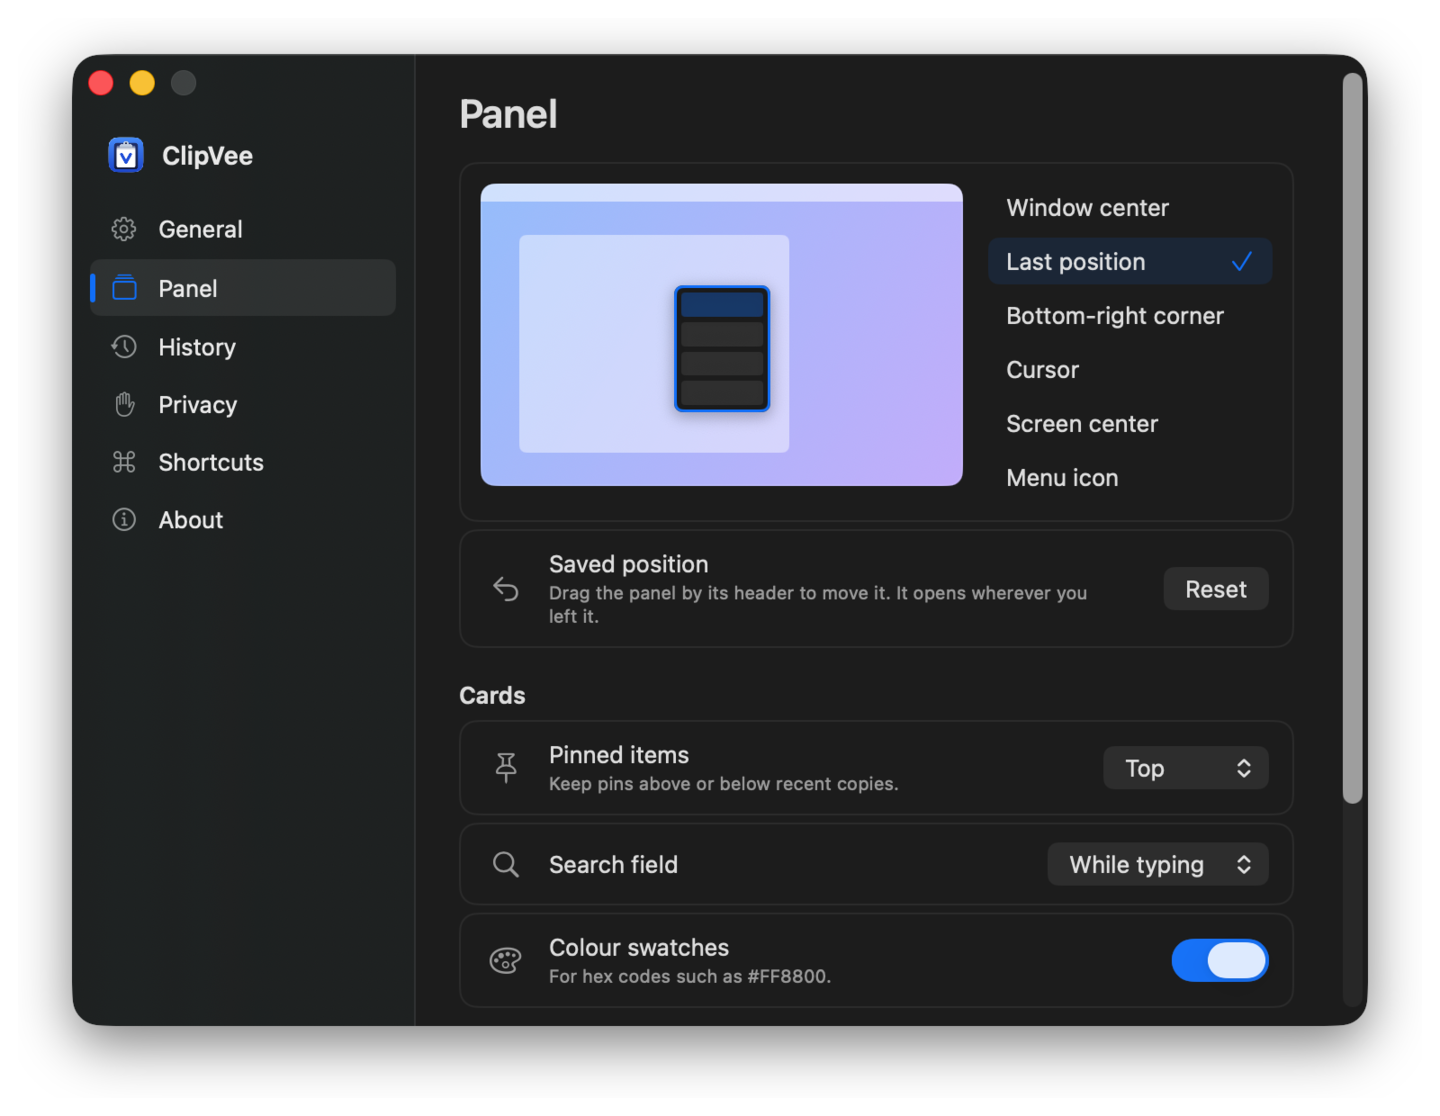
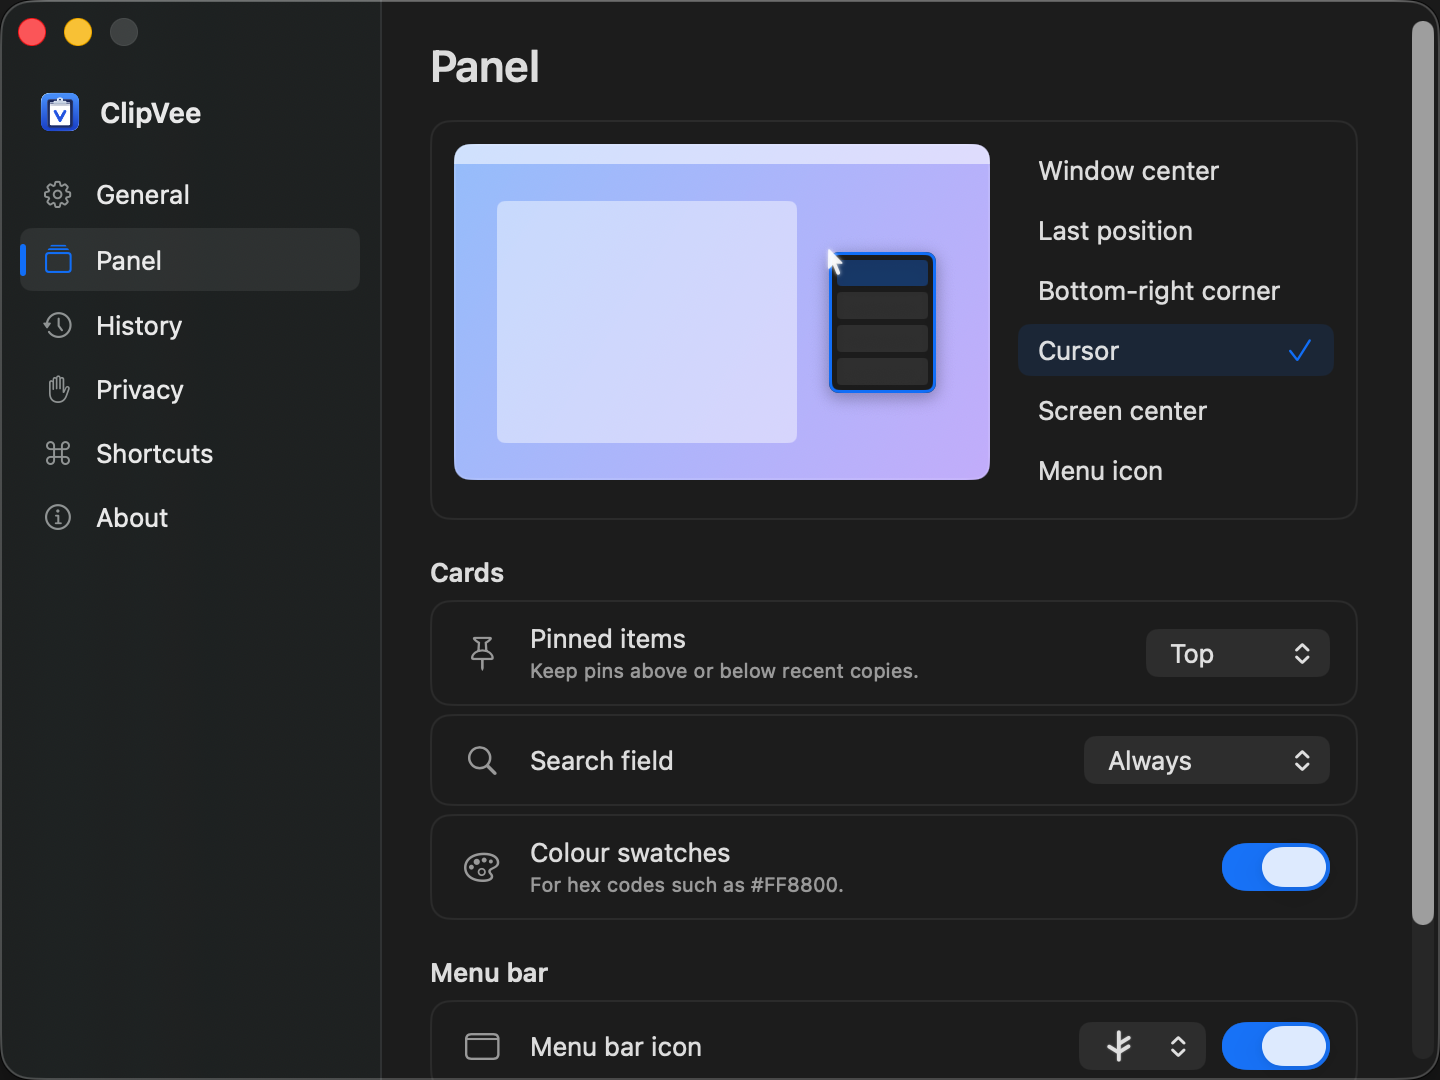
Show a native ClipVee demo in the README
A capture test drives the real app beside a disposable Editor document, and
scripts/build-readme-media.sh turns the frames into the README GIF and the
panel and Settings screenshots. Enter and Return paste tests now send the
physical key to the panel, and the search-mode test checks that the first
typed letters both reach the field.

diff --git a/MaccyUITests/MaccyUITests.swift b/MaccyUITests/MaccyUITests.swift
@@ -28,7 +28,9 @@ class MaccyUITests: XCTestCase {
     return XCUIApplication()
   }()
   let pasteboard = NSPasteboard.general
-  private lazy var pasteTarget = XCUIApplication(bundleIdentifier: "uk.co.mzbali.MaccyPasteTarget")
+  private lazy var pasteTarget = XCUIApplication(url: URL(fileURLWithPath: #filePath)
+    .deletingLastPathComponent().deletingLastPathComponent()
+    .appendingPathComponent(".build/PasteTarget.app"))
   private var savedClipboard: [NSPasteboardItem] = []
   private var didLaunch = false
   private var popupKeyCode = kVK_ANSI_C
@@ -227,8 +229,11 @@ class MaccyUITests: XCTestCase {
     XCTAssertTrue(field.exists)
     // The field waits for the user, without a caret, until typing starts.
     XCTAssertFalse(field.value(forKey: "hasKeyboardFocus") as? Bool ?? false)
+    postKey(kVK_ANSI_A)
+    postKey(kVK_ANSI_B)
+    assertSearchFieldValue("ab")
     for _ in 0..<5 { postKey(kVK_ANSI_X) }
-    assertSearchFieldValue("xxxxx")
+    assertSearchFieldValue("abxxxxx")
     clearEmptySearch()
     XCTAssertTrue(app.textFields.firstMatch.exists)
     for _ in 0..<3 { postKey(kVK_ANSI_Z) }
@@ -335,11 +340,29 @@ class MaccyUITests: XCTestCase {
   }
 
   func testCopyWithEnter() {
-    popUpWithMouse()
-    scrollIntoViewIfNeeded(items[copy2].firstMatch)
-    hover(items[copy2].firstMatch)
-    app.typeKey(.enter, modifierFlags: [])
+    assertKeyboardPaste(keyCode: kVK_ANSI_KeypadEnter)
+  }
+
+  func testCopyWithReturn() {
+    assertKeyboardPaste(keyCode: kVK_Return)
+  }
+
+  private func assertKeyboardPaste(keyCode: Int) {
+    popUpWithHotkey()
+    postKey(kVK_DownArrow)
+    let selected = NSPredicate { [self] _, _ in items[copy2].isSelected }
+    expectation(for: selected, evaluatedWith: nil)
+    waitForExpectations(timeout: 3)
+    // Send the physical key code to the nonactivating panel instead of asking
+    // XCTest to activate the app and synthesize the text form of Enter.
+    postKey(keyCode)
     assertPasteboardStringEquals(copy2)
+    assertPopupDismissed()
+    let pasted = NSPredicate { [self] _, _ in
+      pasteTarget.textViews["paste-destination"].value as? String == copy2
+    }
+    expectation(for: pasted, evaluatedWith: nil)
+    waitForExpectations(timeout: 3)
   }
 
   func testCopyWithCommandShortcut() {
@@ -571,6 +594,76 @@ class MaccyUITests: XCTestCase {
     app.typeKey("v", modifierFlags: [.command])
     assertPasteboardStringEquals(copy2)
     assertPopupDismissed()
+  }
+
+  func testReadmeDemoCapture() async throws {
+    try XCTSkipUnless(ProcessInfo.processInfo.environment["CLIPVEE_CAPTURE_README"] == "1",
+                      "Run explicitly to refresh README media")
+    let output = FileManager.default.temporaryDirectory.appendingPathComponent("ClipVeeReadmeCapture-105")
+    try FileManager.default.createDirectory(at: output, withIntermediateDirectories: true)
+    print("README_CAPTURE_DIR=\(output.path)")
+    pasteTarget.terminate()
+    // Cards name the app a copy came from by its file name, so the demo uses its own "Editor" copy.
+    let editor = XCUIApplication(url: URL(fileURLWithPath: #filePath)
+      .deletingLastPathComponent().deletingLastPathComponent()
+      .appendingPathComponent(".build/Editor.app"))
+    editor.launchArguments = ["--presentation"]
+    editor.launch()
+    defer { editor.terminate() }
+    app.terminate()
+    setKeyboardShortcut("popup", keyCode: kVK_ANSI_V, modifiers: cmdKey | shiftKey)
+    app.launchArguments.append(contentsOf: ["-popupPosition", "cursor"])
+    app.launch()
+    editor.activate()
+    copyToClipboard("#2563EB")
+    copyToClipboard("10:30 by the Ferry Building clock")
+    copyToClipboard("Weekend checklist: ferry tickets, camera, sunglasses.")
+    let window = editor.windows["Weekend plan.txt"]
+    XCTAssertTrue(window.waitForExistence(timeout: 3))
+    let frame = window.frame
+    let pointer = CGPoint(x: frame.minX + 690, y: frame.minY + 100)
+    CGEvent(mouseEventSource: nil, mouseType: .mouseMoved, mouseCursorPosition: pointer, mouseButton: .left)?
+      .post(tap: .cghidEventTap)
+    var frames: [(String, TimeInterval)] = []
+    let start = Date.now
+    func record(seconds: TimeInterval) throws {
+      let until = Date.now.addingTimeInterval(seconds)
+      repeat {
+        let name = String(format: "frame-%03d.png", frames.count)
+        let time = Date.now.timeIntervalSince(start)
+        try window.screenshot().pngRepresentation.write(to: output.appendingPathComponent(name))
+        frames.append((name, time))
+        Thread.sleep(forTimeInterval: 0.12)
+      } while Date.now < until
+    }
+    try record(seconds: 0.8)
+    simulatePopupHotkey()
+    try record(seconds: 1.2)
+    postKey(kVK_DownArrow)
+    try record(seconds: 1.2)
+    postKey(kVK_Return)
+    try record(seconds: 1.6)
+    assertPopupDismissed()
+    let pasted = editor.textViews["paste-destination"].value as? String
+    XCTAssertTrue(pasted?.hasSuffix("Meet at: 10:30 by the Ferry Building clock") == true)
+    CGEvent(mouseEventSource: nil, mouseType: .mouseMoved, mouseCursorPosition: pointer, mouseButton: .left)?
+      .post(tap: .cghidEventTap)
+    popUpWithHotkey()
+    if !items["10:30 by the Ferry Building clock"].isSelected { postKey(kVK_DownArrow) }
+    XCTAssertTrue(items["10:30 by the Ferry Building clock"].isSelected)
+    try record(seconds: 1.2)
+    try window.screenshot().pngRepresentation.write(to: output.appendingPathComponent("panel.png"))
+    var timeline = "ffconcat version 1.0\n"
+    for index in frames.indices {
+      let duration = index + 1 < frames.count ? frames[index + 1].1 - frames[index].1 : 1.6
+      timeline += "file '\(frames[index].0)'\nduration \(duration)\n"
+    }
+    timeline += "file '\(frames.last!.0)'\n"
+    try timeline.write(to: output.appendingPathComponent("frames.ffconcat"), atomically: true, encoding: .utf8)
+    openSettingsFromHeader()
+    let settings = app.windows["ClipVee Settings"]
+    settings.buttons["Panel"].click()
+    try settings.screenshot().pngRepresentation.write(to: output.appendingPathComponent("settings.png"))
   }
 
   func testDisablesOnOptionClickingMenubarIcon() throws {

diff --git a/test-support/PasteTarget.swift b/test-support/PasteTarget.swift
@@ -4,6 +4,8 @@ import AppKit
 // network actions or user documents, so a failed popup cannot send a message.
 let application = NSApplication.shared
 application.setActivationPolicy(.regular)
+let presentation = CommandLine.arguments.contains("--presentation")
+if presentation { application.appearance = NSAppearance(named: .darkAqua) }
 let menu = NSMenu()
 let applicationItem = NSMenuItem()
 let applicationMenu = NSMenu()
@@ -23,7 +25,7 @@ let window = NSWindow(
     contentRect: NSRect(x: 0, y: 0, width: 1100, height: 850),
     styleMask: [.titled, .closable, .resizable], backing: .buffered, defer: false
 )
-window.title = "Maccy paste test target"
+window.title = presentation ? "Weekend plan.txt" : "Maccy paste test target"
 window.center()
 final class PasteObserver: NSObject, NSTextViewDelegate {
   let summary = NSTextField(labelWithString: "Images: 0")
@@ -42,6 +44,7 @@ let observer = PasteObserver()
 let content = window.contentView!
 observer.summary.frame = NSRect(x: 20, y: 10, width: 300, height: 24)
 observer.summary.setAccessibilityIdentifier("paste-summary")
+observer.summary.isHidden = presentation
 content.addSubview(observer.summary)
 let editor = NSTextView(frame: NSRect(x: 0, y: 44, width: content.bounds.width, height: content.bounds.height - 44))
 editor.autoresizingMask = [.width, .height]
@@ -50,6 +53,23 @@ editor.setAccessibilityIdentifier("paste-destination")
 editor.isRichText = true
 editor.importsGraphics = true
 editor.delegate = observer
+if presentation {
+  // Keep the document at the top of the window instead of shrinking to fit after a paste.
+  editor.isVerticallyResizable = false
+  editor.textContainerInset = NSSize(width: 40, height: 40)
+  let document = NSMutableAttributedString(string: "Weekend plan\n\n", attributes: [
+    .font: NSFont.systemFont(ofSize: 28, weight: .semibold), .foregroundColor: NSColor.labelColor
+  ])
+  let bodyAttributes: [NSAttributedString.Key: Any] = [
+    .font: NSFont.systemFont(ofSize: 19), .foregroundColor: NSColor.labelColor
+  ]
+  document.append(NSAttributedString(
+    string: "Ferry to Sausalito on Saturday,\nthen lunch by the water.\n\nMeet at: ", attributes: bodyAttributes
+  ))
+  editor.textStorage?.setAttributedString(document)
+  editor.typingAttributes = bodyAttributes
+  editor.setSelectedRange(NSRange(location: document.length, length: 0))
+}
 content.addSubview(editor)
 window.makeKeyAndOrderFront(nil)
 window.makeFirstResponder(editor)

diff --git a/LOCAL_DEVELOPMENT.md b/LOCAL_DEVELOPMENT.md
@@ -39,6 +39,25 @@ DEVELOPER_DIR=/Applications/Xcode.app/Contents/Developer xcodebuild \
 
 UI tests (`MaccyUITests`) press real keys and paste into a throwaway editor (`test-support/PasteTarget.swift`), so they take over the keyboard while they run. They save and restore your clipboard. They need Accessibility for **ClipVeeUITests-Runner**. To test the copy in `/Applications` rather than the build output, set `TEST_RUNNER_CLIPVEE_UI_APP_PATH=/Applications/ClipVee.app`.
 
+## Refresh README media
+
+The optional capture test uses an in-memory ClipVee history and a disposable Demo Editor with made-up snippets. It saves and restores the clipboard like the other UI tests. It takes over the keyboard and mouse; quit the everyday ClipVee copy first.
+
+After `CLIPVEE_SIGN_IDENTITY=ClipVee ./scripts/build-local.sh`, run:
+
+```sh
+DEVELOPER_DIR=/Applications/Xcode.app/Contents/Developer \
+TEST_RUNNER_CLIPVEE_UI_APP_PATH=/Applications/ClipVee.app \
+TEST_RUNNER_CLIPVEE_CAPTURE_README=1 \
+xcodebuild -project Maccy.xcodeproj -scheme ClipVee -configuration Debug \
+  -derivedDataPath .build/DerivedData -destination 'platform=macOS' \
+  -only-testing:MaccyUITests/MaccyUITests/testReadmeDemoCapture test-without-building \
+  > .build/readme-capture.log 2>&1
+./scripts/build-readme-media.sh
+```
+
+The installed app must match the built version. The runner saves captures in its temporary directory and logs the path; the conversion script reads it from `.build/readme-capture.log` (or accepts a directory argument). The conversion step requires `ffmpeg` and generates a repo-hosted GIF plus panel and Settings PNGs. Inspect the media before publishing it. Restart the everyday app after the capture finishes.
+
 ## Making a release
 
 Releases are signed with a self-signed certificate called **ClipVee**, so macOS keeps ClipVee's Accessibility permission across updates. Create it once with `./scripts/create-signing-identity.sh`, and back it up from Keychain Access (File → Export Items): a new certificate would make every user turn Accessibility on again. It has no Apple Team ID, so the app turns off library validation to load Sparkle.

diff --git a/README.md b/README.md
@@ -14,7 +14,7 @@
 </p>
 
 <p align="center">
-  <img src="docs/screenshots/panel.png" width="720" alt="The ClipVee panel open over a document, showing text and image cards">
+  <img src="docs/images/demo.gif" width="900" alt="ClipVee demo: Command Shift V opens the panel beside a document, the Down arrow selects a saved sentence, Return pastes it, and reopening the panel shows that sentence first">
 </p>
 
 ## Why ClipVee
